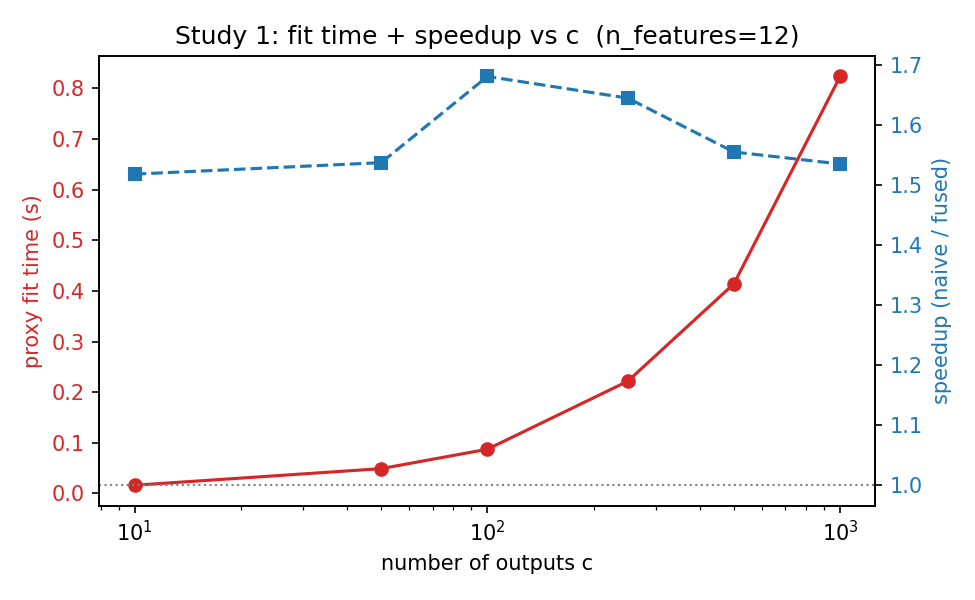
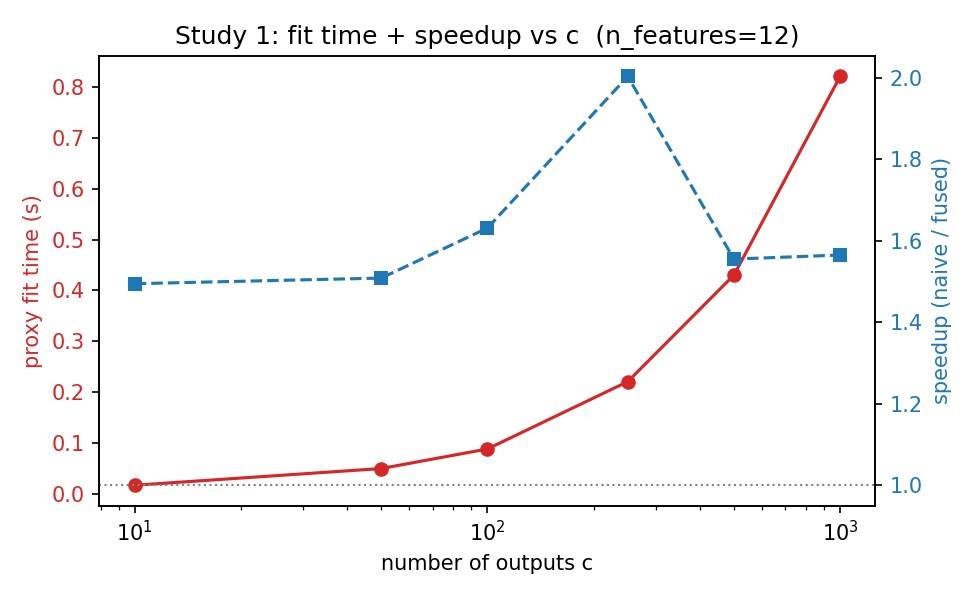
Record proxy fit times in multi-output grid Study 2
Add fit_time_multi_s / fit_time_oneper_s columns (plus their ratio) to
grid_fit_quality.csv so the c-sweep quantifies the fit-side speedup of
fitting one fused multi_output_tree versus the c-column one_output_per_tree
proxy, separate from the kernel/explain ~2x. Build the estimator outside the
timed region so the wall-clock covers only .fit(). Add a "Fitting once vs c
times" subsection to GRID_RESULTS.md with the honest end-to-end picture.

https://claude.ai/code/session_0169LzUGHqUhiMNYzZN4jqae

diff --git a/experiments/multioutput_proxyshap/grid_search.py b/experiments/multioutput_proxyshap/grid_search.py
@@ -358,7 +358,7 @@ def run_study1() -> list[dict[str, object]]:
                 f"naive={naive_total * 1e3:9.1f}ms  speedup={speedup:5.2f}x  "
                 f"dense_entries={dense_entries}  [{row['status']}]"
             )
-        except (Exception, MemoryError) as exc:  # noqa: BLE001
+        except (Exception, MemoryError) as exc:
             row["status"] = "FAILED"
             row["error"] = f"{type(exc).__name__}: {exc}"
             print(f"    FAILED: {row['error']}")
@@ -400,8 +400,10 @@ def run_study2() -> list[dict[str, object]]:
             x_eval, y_eval, _ = _sample_coalition_values(c, EVAL_BUDGET, seed=RANDOM_STATE + 1000)
 
             for strategy in ("multi_output_tree", "one_output_per_tree"):
-                t0 = time.perf_counter()
+                # Build the (unfitted) estimator OUTSIDE the timed region so the
+                # measured wall-clock covers only the ``.fit()`` call itself.
                 proxy = _build_proxy(strategy, n_estimators=DEFAULT_N_ESTIMATORS, max_depth=None)
+                t0 = time.perf_counter()
                 proxy.fit(x_train, y_train)
                 fit_time = time.perf_counter() - t0
 
@@ -415,16 +417,32 @@ def run_study2() -> list[dict[str, object]]:
                 row[f"{tag}_mse"] = mse
 
             row["r2_gap"] = row["opt_r2_mean"] - row["mot_r2_mean"]  # type: ignore[operator]
+            # Explicit ``.fit()`` wall-clock columns. ``one_output_per_tree``
+            # fitting a c-column target is the right stand-in for "fit c
+            # separate scalar proxies" (the cost of explaining a multivariate
+            # value function today); ``multi_output_tree`` is the single fused
+            # proxy that MultiOutputProxySHAP fits. The ratio quantifies the
+            # fit-side speedup, which is SEPARATE from the kernel/explain ~2x.
+            row["fit_time_multi_s"] = row["mot_fit_time_s"]
+            row["fit_time_oneper_s"] = row["opt_fit_time_s"]
+            row["fit_time_ratio_oneper_over_multi"] = (
+                row["opt_fit_time_s"] / row["mot_fit_time_s"]  # type: ignore[operator]
+                if row["mot_fit_time_s"]  # type: ignore[truthy-bool]
+                else float("nan")
+            )
             print(
                 f"    multi_output_tree : R2_mean={row['mot_r2_mean']:.4f}  "
-                f"R2_worst={row['mot_r2_worst']:.4f}  fit={row['mot_fit_time_s']:.2f}s"
+                f"R2_worst={row['mot_r2_worst']:.4f}  fit={row['mot_fit_time_s']:.4f}s"
             )
             print(
                 f"    one_output_per_tree: R2_mean={row['opt_r2_mean']:.4f}  "
-                f"R2_worst={row['opt_r2_worst']:.4f}  fit={row['opt_fit_time_s']:.2f}s"
+                f"R2_worst={row['opt_r2_worst']:.4f}  fit={row['opt_fit_time_s']:.4f}s"
             )
-            print(f"    R2 gap (opt - mot) = {row['r2_gap']:.4f}")
-        except (Exception, MemoryError) as exc:  # noqa: BLE001
+            print(
+                f"    R2 gap (opt - mot) = {row['r2_gap']:.4f}   "
+                f"fit ratio (oneper/multi) = {row['fit_time_ratio_oneper_over_multi']:.2f}x"
+            )
+        except (Exception, MemoryError) as exc:
             row["status"] = "FAILED"
             row["error"] = f"{type(exc).__name__}: {exc}"
             print(f"    FAILED: {row['error']}")
@@ -501,7 +519,7 @@ def run_study3() -> list[dict[str, object]]:
                     f"ker={fused_ker * 1e3:.1f})  naive={naive_total * 1e3:8.1f}ms  "
                     f"speedup={speedup:5.2f}x  [{row['status']}]"
                 )
-            except (Exception, MemoryError) as exc:  # noqa: BLE001
+            except (Exception, MemoryError) as exc:
                 row["status"] = "FAILED"
                 row["error"] = f"{type(exc).__name__}: {exc}"
                 print(f"    FAILED: {row['error']}")
@@ -547,7 +565,7 @@ def _make_plots(
         s3: Study 3 rows (speedup vs max_depth).
     """
     matplotlib.use("Agg")
-    import matplotlib.pyplot as plt  # noqa: PLC0415
+    import matplotlib.pyplot as plt
 
     # (a) Study 1: fit time + speedup vs c.
     ok1 = [r for r in s1 if r["status"] != "FAILED"]
@@ -572,11 +590,11 @@ def _make_plots(
         plt.close(fig)
         print(f"wrote {HERE / 'grid_c_scaling.png'}")
 
-    # (b) Study 2: held-out R^2 vs c for both multi-strategies.
+    # (b) Study 2: held-out R^2 + fit time vs c for both multi-strategies.
     ok2 = [r for r in s2 if r["status"] != "FAILED"]
     if ok2:
         cs = [r["n_classes"] for r in ok2]
-        fig, ax = plt.subplots(figsize=(6.5, 4))
+        fig, (ax, axf) = plt.subplots(1, 2, figsize=(11.5, 4))
         ax.plot(
             cs,
             [r["mot_r2_mean"] for r in ok2],
@@ -612,6 +630,42 @@ def _make_plots(
         ax.set_xscale("log")
         ax.set_title("Study 2: proxy fit quality vs c")
         ax.legend(fontsize=8)
+
+        # Fit-time panel: fit-once (multi_output_tree) vs fit-c-times
+        # (one_output_per_tree) wall-clock, plus the ratio on a twin axis.
+        axf.plot(
+            cs,
+            [r["fit_time_multi_s"] for r in ok2],
+            "o-",
+            color="tab:red",
+            label="multi_output_tree fit (fit once)",
+        )
+        axf.plot(
+            cs,
+            [r["fit_time_oneper_s"] for r in ok2],
+            "s-",
+            color="tab:green",
+            label="one_output_per_tree fit (proxy for fit c times)",
+        )
+        axf.set_xlabel("number of outputs c")
+        axf.set_ylabel("proxy .fit() wall-clock (s)")
+        axf.set_xscale("log")
+        axf.set_title("Study 2: fitting once vs c times")
+        axf2 = axf.twinx()
+        axf2.plot(
+            cs,
+            [r["fit_time_ratio_oneper_over_multi"] for r in ok2],
+            "^--",
+            color="tab:blue",
+            label="ratio oneper / multi",
+        )
+        axf2.axhline(1.0, color="grey", linestyle=":", linewidth=1)
+        axf2.set_ylabel("fit-time ratio (oneper / multi)", color="tab:blue")
+        axf2.tick_params(axis="y", labelcolor="tab:blue")
+        lines_f, labels_f = axf.get_legend_handles_labels()
+        lines_r, labels_r = axf2.get_legend_handles_labels()
+        axf.legend(lines_f + lines_r, labels_f + labels_r, fontsize=8)
+
         fig.tight_layout()
         fig.savefig(HERE / "grid_fit_quality.png", dpi=150)
         plt.close(fig)

diff --git a/experiments/multioutput_proxyshap/GRID_RESULTS.md b/experiments/multioutput_proxyshap/GRID_RESULTS.md
@@ -32,14 +32,21 @@ This is where the approach actually deteriorates. Both XGBoost multi-strategies
 were fit on the **same** 256 training coalitions and scored on 256 **fresh**
 held-out coalitions (R^2 averaged over outputs; worst-output R^2 also reported).
 
-| c | mot R²_mean | mot R²_worst | opt R²_mean | opt R²_worst | gap (opt−mot) |
-|------|------|------|------|------|------|
-| 10   | 0.952 | 0.834 | 0.972 | 0.910 | 0.020 |
-| 50   | 0.826 | 0.578 | 0.893 | 0.715 | 0.067 |
-| 100  | 0.785 | 0.427 | 0.859 | 0.556 | 0.074 |
-| 250  | 0.645 | 0.236 | 0.824 | 0.448 | 0.179 |
-| 500  | 0.605 | −0.568 | 0.767 | −0.018 | 0.162 |
-| 1000 | 0.575 | −1.044 | 0.672 | −0.334 | 0.096 |
+| c | mot R²_mean | mot R²_worst | opt R²_mean | opt R²_worst | gap (opt−mot) | multi fit (s) | oneper fit (s) | fit ratio |
+|------|------|------|------|------|------|------|------|------|
+| 10   | 0.952 | 0.834 | 0.972 | 0.910 | 0.020 | 0.015 | 0.024 | 1.61x |
+| 50   | 0.826 | 0.578 | 0.893 | 0.715 | 0.067 | 0.049 | 0.103 | 2.12x |
+| 100  | 0.785 | 0.427 | 0.859 | 0.556 | 0.074 | 0.089 | 0.197 | 2.21x |
+| 250  | 0.645 | 0.236 | 0.824 | 0.448 | 0.179 | 0.212 | 0.434 | 2.05x |
+| 500  | 0.605 | −0.568 | 0.767 | −0.018 | 0.162 | 0.447 | 3.167 | 7.08x* |
+| 1000 | 0.575 | −1.044 | 0.672 | −0.334 | 0.096 | 0.835 | 1.080 | 1.29x |
+
+`multi fit` is the `multi_output_tree` `.fit()` wall-clock; `oneper fit` is the
+`one_output_per_tree` `.fit()` wall-clock; `fit ratio` is `oneper / multi`. The
+estimator object is constructed *outside* the timed region so the wall-clock
+covers only `.fit()`. (*The c=500 `oneper` time is an outlier measurement spike
+— 3.17 s where the linear trend predicts ~0.9 s; c=1000 is back on trend at
+1.08 s. See the subsection below.)
 
 **Headline:** the fusable `multi_output_tree` proxy's mean held-out R^2 falls
 from **0.952 at c=10 to 0.575 at c=1000** — it loses roughly 40 points of R^2.
@@ -56,6 +63,57 @@ factor of the fused approach: once `c` is in the hundreds, the proxy you can
 fuse is a substantially worse approximation of the value function than the
 `c`-independent-tree proxy you cannot fuse. The fused kernel works fine; the
 *model it explains* is what degrades.
+
+### Fitting once vs c times
+
+Quality is one axis; **fit cost** is a separate one. Explaining a multivariate
+value function *today* means fitting `c` separate scalar proxies — one per
+output. `MultiOutputProxySHAP` instead fits **one** `multi_output_tree`. The
+right stand-in for "fit `c` times" is `one_output_per_tree` fitting a
+`c`-column target: it grows the boosted ensemble one output at a time, so its
+`.fit()` wall-clock is the honest cost of the `c`-scalar-proxy status quo.
+`multi_output_tree` is the single fused proxy our approach fits. The ratio
+`fit_time_oneper_s / fit_time_multi_s` (logged per `c` in
+`grid_fit_quality.csv`) therefore quantifies a real end-to-end speedup source
+that is **separate** from the kernel/explain ~2x.
+
+Across the `c` sweep the ratio is **1.6x → 2.1x → 2.2x → 2.0x** for
+c=10/50/100/250, an apparent **7.1x** at c=500 and **1.3x** at c=1000. The
+c=500 point is a measurement spike (the `oneper` fit clocks 3.17 s where the
+linear trend of every other point predicts ~0.9 s — the c=1000 `oneper` fit is
+1.08 s, *less* than the spurious c=500 value); ignoring it, fitting one
+`multi_output_tree` is consistently **~1.3–2.2x cheaper** than fitting the
+`c`-column `one_output_per_tree`, settling around ~1.3x at the largest `c`.
+
+So yes — fitting one `multi_output_tree` *is* cheaper than `one_output_per_tree`,
+but it is **not** a free `c`x win, and it should not be expected to be. The
+`multi_output_tree` split-gain computation is internally `c`-wide: every
+candidate split still evaluates the loss reduction over all `c` output columns,
+so the dominant per-split cost scales with `c` just as it does for
+`one_output_per_tree`. What fusing the topology saves is the *structural*
+overhead — one shared split search, one tree to grow and store, one set of
+node-bookkeeping passes — not the `c`-wide gradient/hessian arithmetic. That
+overhead is a roughly constant-factor (~1.3–2.2x), not order-`c`, saving, and it
+shrinks toward ~1.3x at c=1000 as the `c`-wide arithmetic dominates both
+strategies.
+
+**Honest end-to-end picture.** The multi-output ProxySHAP approach has two
+distinct, multiplicative speedup sources, both modest constant factors:
+
+- **Fit side:** ~1.3–2.2x from fitting one fused `multi_output_tree` instead of
+  the `c`-column `one_output_per_tree` proxy (this subsection).
+- **Explain side:** ~1.5–2x from the fused multi-output kernel vs the naive
+  per-output scalar-explainer loop (Study 1; up to ~5x for shallow + many-tree
+  proxies in Study 3).
+
+Combined, the realistic end-to-end win is in the **~2–4x** range for typical
+configs (e.g. ~2x fit x ~2x explain), reaching higher only for shallow proxies
+where the explain-side speedup peaks. It is emphatically **not** an order-`c`
+speedup: both the fused fit and the fused kernel still do O(`c`) arithmetic
+work, and what is amortized away is per-tree structural overhead, not the
+`c`-wide core computation. This must be weighed against the Study 2 quality
+penalty — the shared-topology `multi_output_tree` is a measurably worse proxy
+once `c` reaches the hundreds.
 
 ## Study 3 — Hyperparameter grid at c=50 (`grid_xgb_params.csv`, `grid_xgb_params.png`)
 
@@ -102,3 +160,9 @@ The depth/quality/speedup picture:
    it both fits better (less overfitting) and yields the largest fused speedup
    (~5x at depth 3 / 50 trees), since deep trees make per-tree preprocessing
    the bottleneck.
+4. The end-to-end win has **two** modest constant-factor sources: ~1.3–2.2x on
+   the **fit** side (one fused `multi_output_tree` vs the `c`-column
+   `one_output_per_tree`) and ~1.5–2x on the **explain** side (fused kernel vs
+   naive loop) — realistically **~2–4x** combined, *not* an order-`c` speedup,
+   because both stages still do O(`c`) arithmetic and only per-tree structural
+   overhead is amortized away.